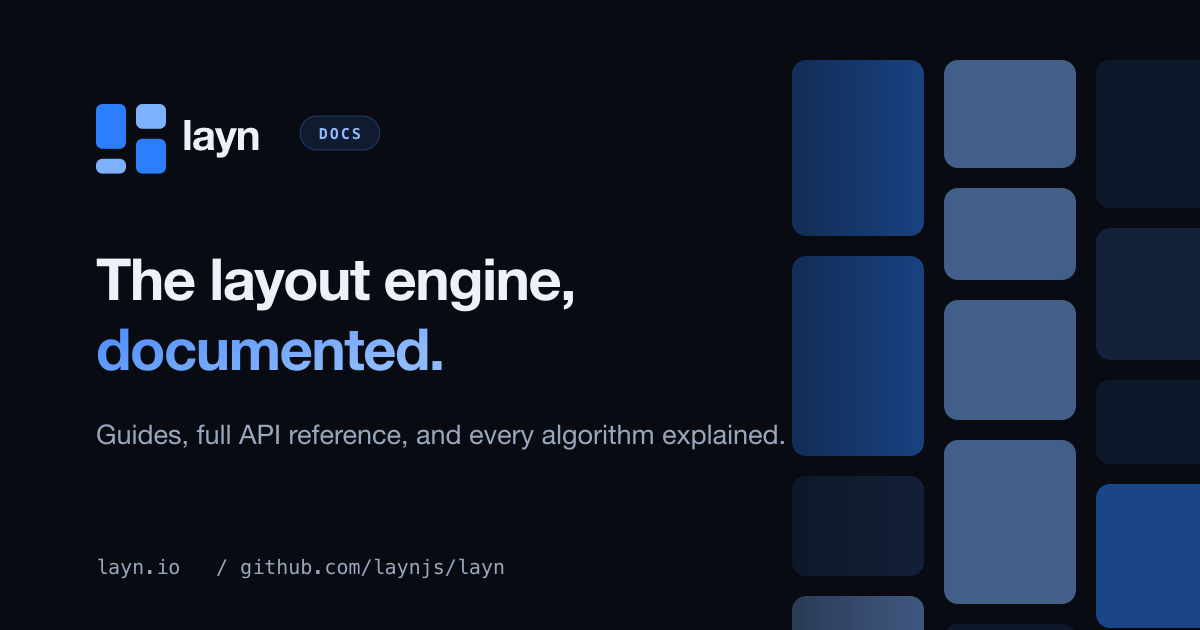
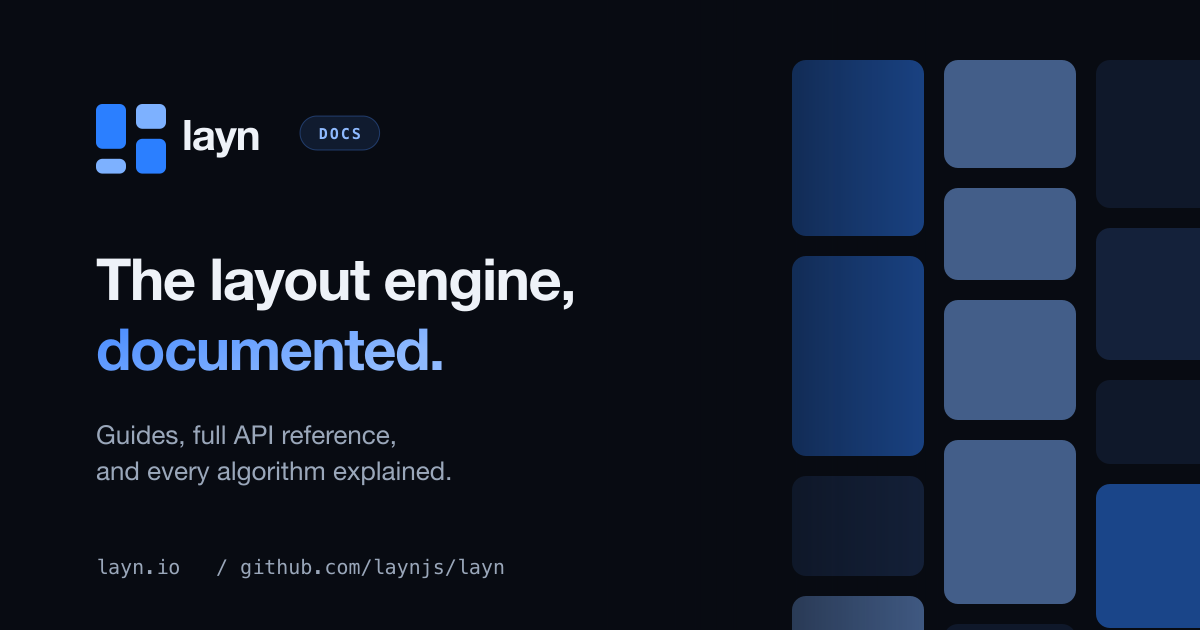
docs: refresh the README and the social images
The README described v0.1 while v0.4 shipped: no motion, drag and drop,
sections, RTL, responsive columns or devtools. Adds those, measured bundle
sizes, and a StackBlitz link.

Changed region(s): [[0.0925, 0.6635, 0.6475, 0.7841]]

diff --git a/README.md b/README.md
@@ -11,20 +11,33 @@ Compute your layout once, render it anywhere. Deterministic on the server, virtu
 [![CI](https://github.com/laynjs/layn/actions/workflows/ci.yml/badge.svg)](https://github.com/laynjs/layn/actions/workflows/ci.yml)
 [![license](https://img.shields.io/badge/license-MIT-blue.svg)](./LICENSE)
 
-[Documentation](https://docs.layn.io) · [Playground](https://play.layn.io) · [Website](https://layn.io)
+[Documentation](https://docs.layn.io) · [Playground](https://play.layn.io) · [Website](https://layn.io) · [Try it on StackBlitz](https://stackblitz.com/github/laynjs/layn/tree/main/templates/react)
 
 </div>
 
 ## What is layn?
 
-layn is a framework-agnostic layout engine that replaces stagnant libraries like `masonic`. The core is a pure function of state - `(items + config + measurements) -> positions + contentSize` - with no DOM and no framework inside. The server and the client compute identical rectangles from the same data, so hydration never mismatches and there is no layout shift.
+layn is a layout engine, not a grid component. The core is a pure function of state - `(items + config + measurements) -> positions + contentSize` - with no DOM and no framework inside. It hands you a rectangle for every item and stays out of your markup.
+
+Because the positions come from your data rather than from measuring the DOM, the server and the client compute the same rectangles. Hydration never mismatches and there is no layout shift.
 
 - **Headless** - the engine computes positions; your framework renders.
-- **SSR-deterministic** - data-first measurement (aspect ratio / provided dimensions) so the server and client agree, refined by `ResizeObserver` after paint.
-- **First-class virtualization** - only the visible items are in the DOM, as a separate layer from layout.
-- **Nine layouts** - masonry, columns, justified, staggered, packing, bin-packing, quilt, magazine, and horizontal masonry.
+- **SSR-deterministic** - data-first measurement (aspect ratio or given dimensions), refined by `ResizeObserver` after paint.
+- **Virtualization built in** - a spatial index keeps only the visible items in the DOM, on every algorithm.
+- **Nine layouts** - masonry, columns, justified, staggered, packing, bin-packing, quilt, magazine, horizontal masonry.
+- **Motion** - FLIP animations on layout change, enter and exit transitions, drag to reorder.
+- **Real-world features** - sections with sticky headers, infinite scroll, responsive column counts read from the container, RTL, `scrollToItem`.
+- **Devtools** - an overlay drawing the engine's own rectangles, the overscan band, and which tiles are measured rather than estimated.
 - **Every major framework** - thin adapters for React, Vue, Svelte, Solid, Angular, Qwik, and vanilla.
-- **Zero-dependency core** - `@laynjs/core` has no runtime dependencies and is DOM-free.
+- **Small and dependency-free** - `@laynjs/core` has zero runtime dependencies. Engine plus masonry is 3.2 kB min+gzip; the whole React stack is 8.5 kB.
+
+<div align="center">
+
+<img src=".github/media/devtools.webp" alt="A photo grid with the layn devtools overlay on: a readout showing 240 items with 26 rendered, green outlines around measured tiles, and dashed lines marking the overscan band" width="880" />
+
+<sub>The devtools overlay, drawing what the engine knows: 240 photos laid out, 26 of them in the DOM. <a href="https://play.layn.io">Try it in the playground</a>.</sub>
+
+</div>
 
 ## Install
 
@@ -47,7 +60,12 @@ import { useLayn } from '@laynjs/react'
 import { masonry } from '@laynjs/core'
 
 export function Gallery({ items }) {
-  const layn = useLayn({ items, algorithm: masonry({ columnWidth: 236 }), gap: { x: 12, y: 12 } })
+  const layn = useLayn({
+    items,
+    algorithm: masonry({ columns: { 0: 1, 640: 2, 1000: 3, 1400: 4 } }),
+    gap: { x: 12, y: 12 },
+    animate: true,
+  })
 
   return (
     <div {...layn.containerProps}>
@@ -63,7 +81,17 @@ export function Gallery({ items }) {
 }
 ```
 
-See the [documentation](https://docs.layn.io) for every framework and every algorithm.
+Each item carries an `aspectRatio` (or a `width`/`height`), which is what lets the server render the
+grid in its final shape. The column count above is read from the **container**, not the window.
+
+See the [documentation](https://docs.layn.io) for every framework and every algorithm, or open the
+[playground](https://play.layn.io) to try all nine.
+
+## What layn writes, and what it leaves to you
+
+layn sets geometry only - `position`, `top`, `left`, `width`, `height`, `transform` on items, and the
+size of the wrapper. Colour, radius, shadows, borders and typography are entirely yours; spread
+`entry.style` first and style around it. See the [styling guide](https://docs.layn.io/guides/styling/).
 
 ## Packages
 
@@ -79,6 +107,13 @@ See the [documentation](https://docs.layn.io) for every framework and every algo
 | [`@laynjs/qwik`](./packages/qwik) | Qwik adapter. |
 | [`@laynjs/vanilla`](./packages/vanilla) | Framework-free imperative controller. |
 | [`@laynjs/adapter-utils`](./packages/adapter-utils) | Shared, framework-free adapter glue. |
+
+## Status
+
+layn is pre-1.0 and published continuously. Every release ships with tests, e2e coverage, docs and a
+playground demo, and every package carries an npm [provenance attestation](https://docs.npmjs.com/generating-provenance-statements).
+The API is stable in practice but may still change before 1.0; breaking changes are released as minor
+versions and written up in each package's changelog.
 
 ## Contributing
 
